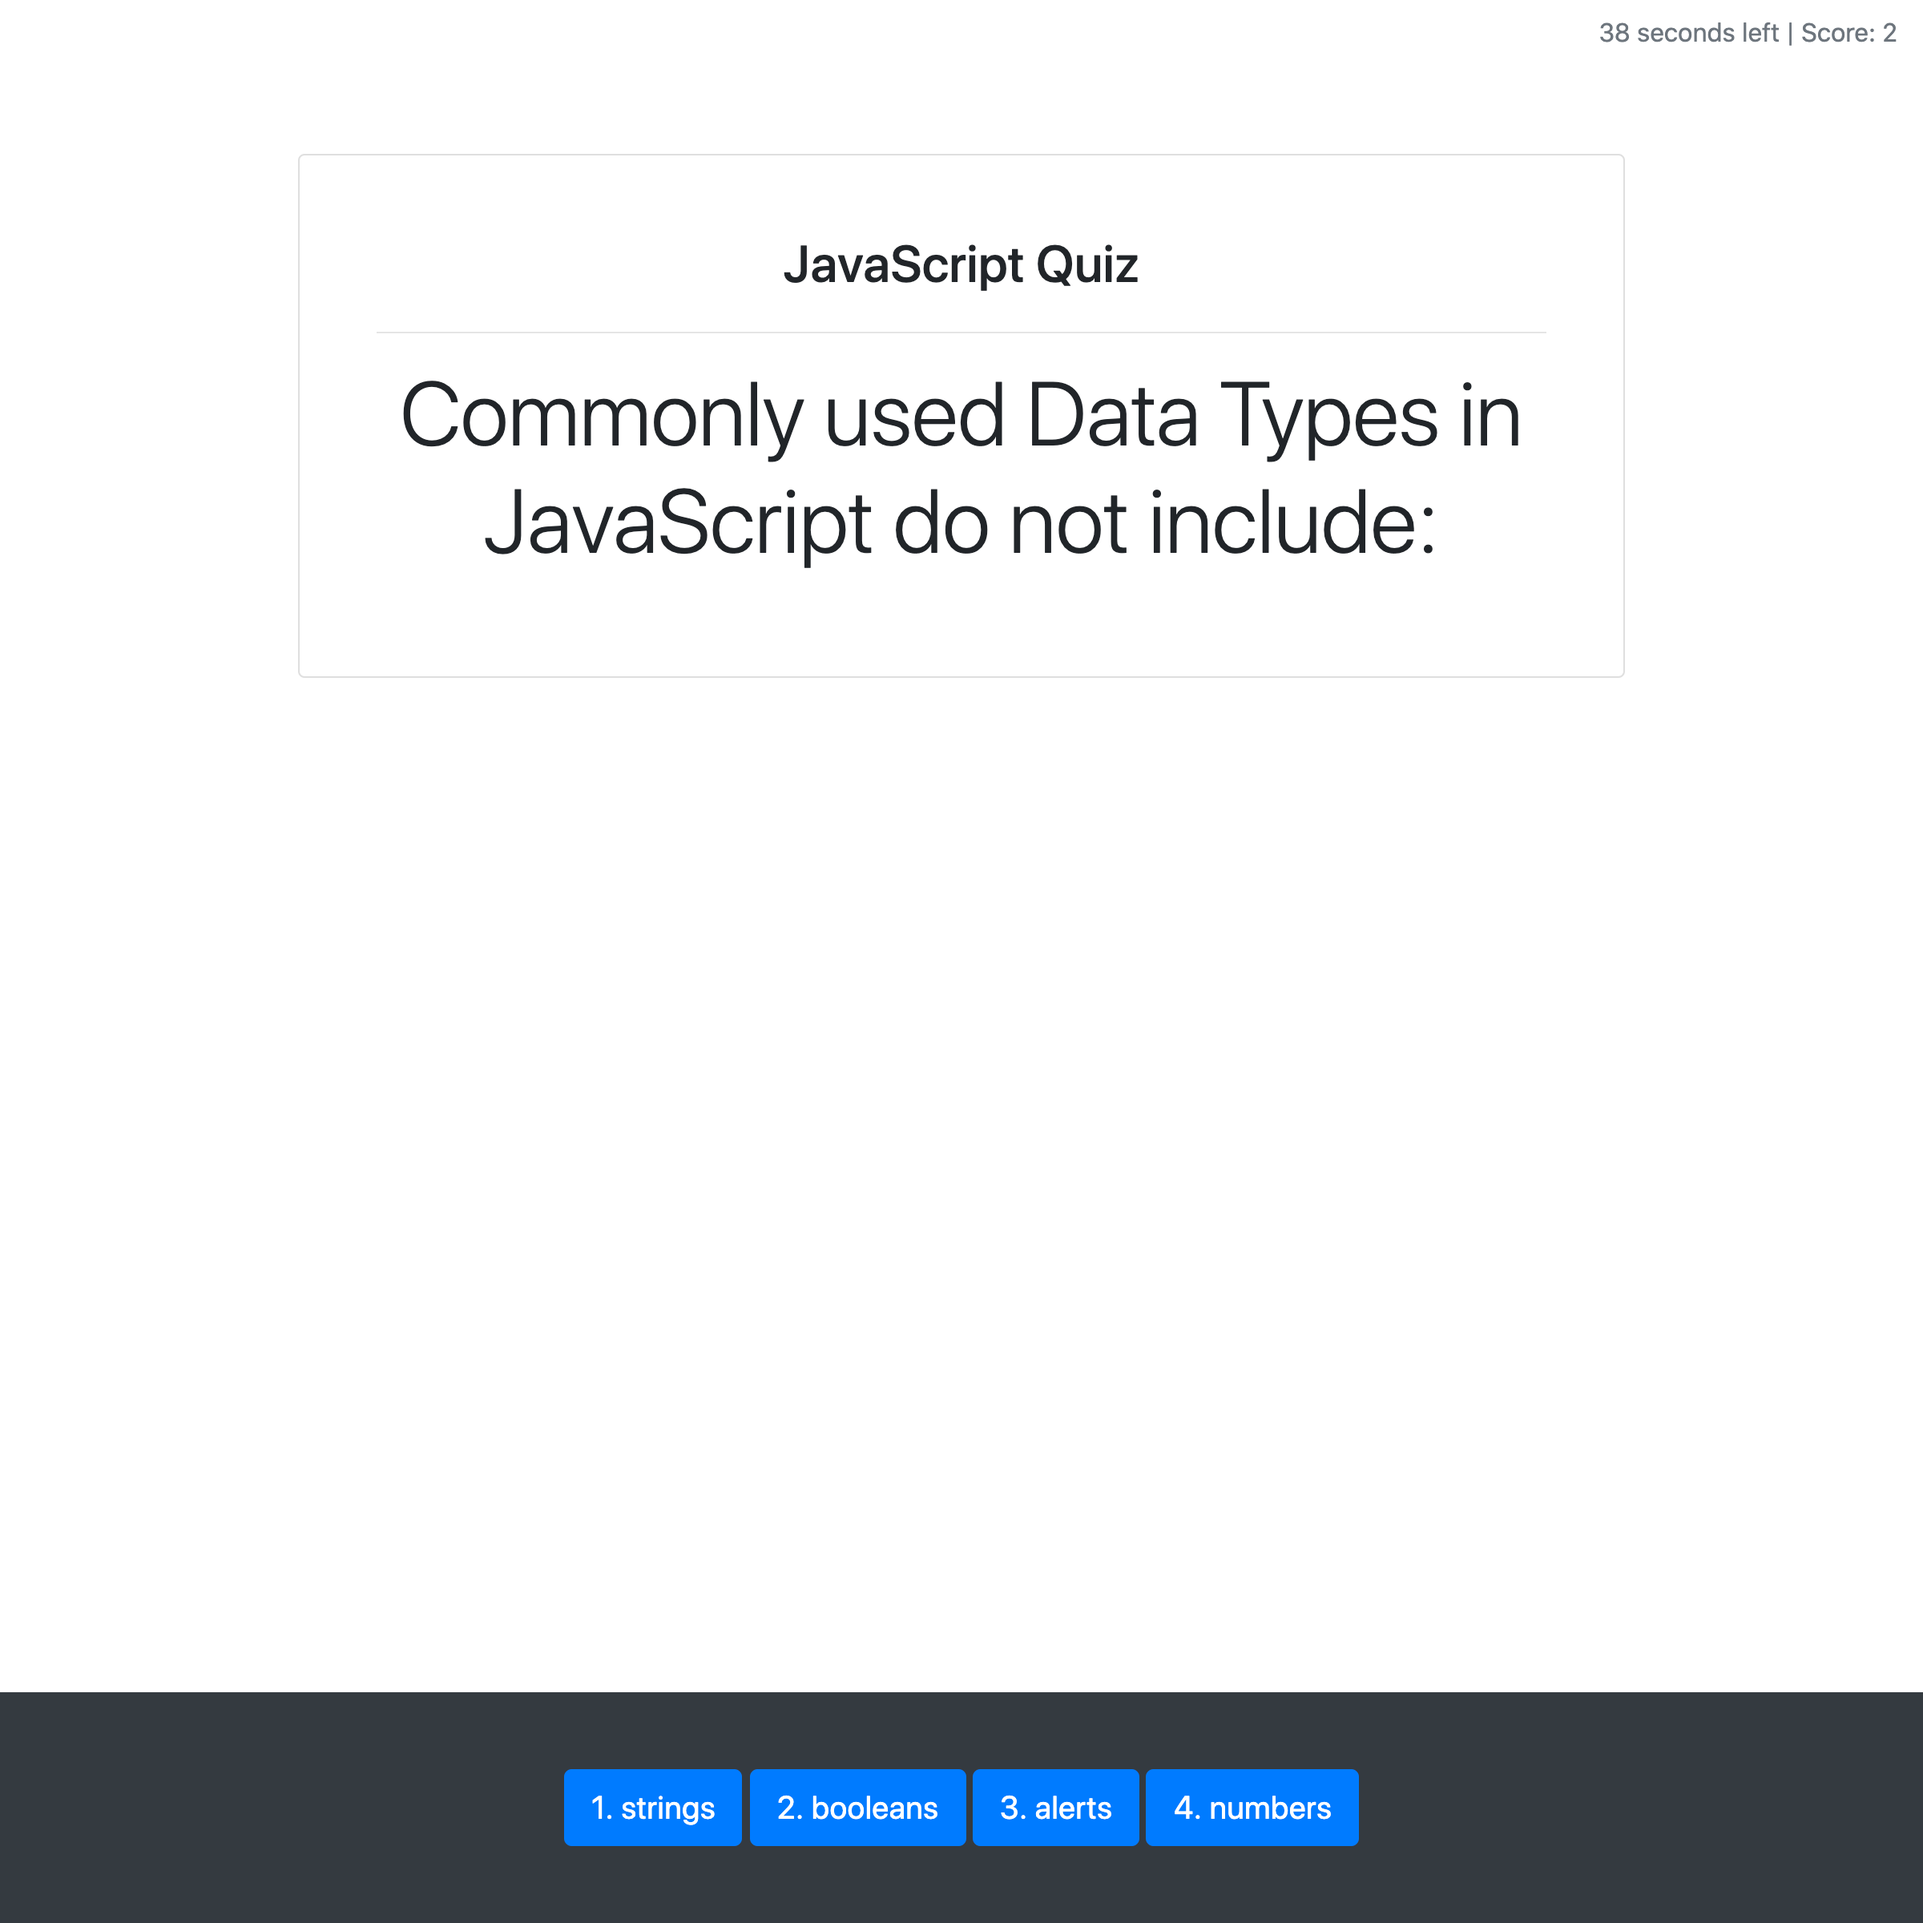
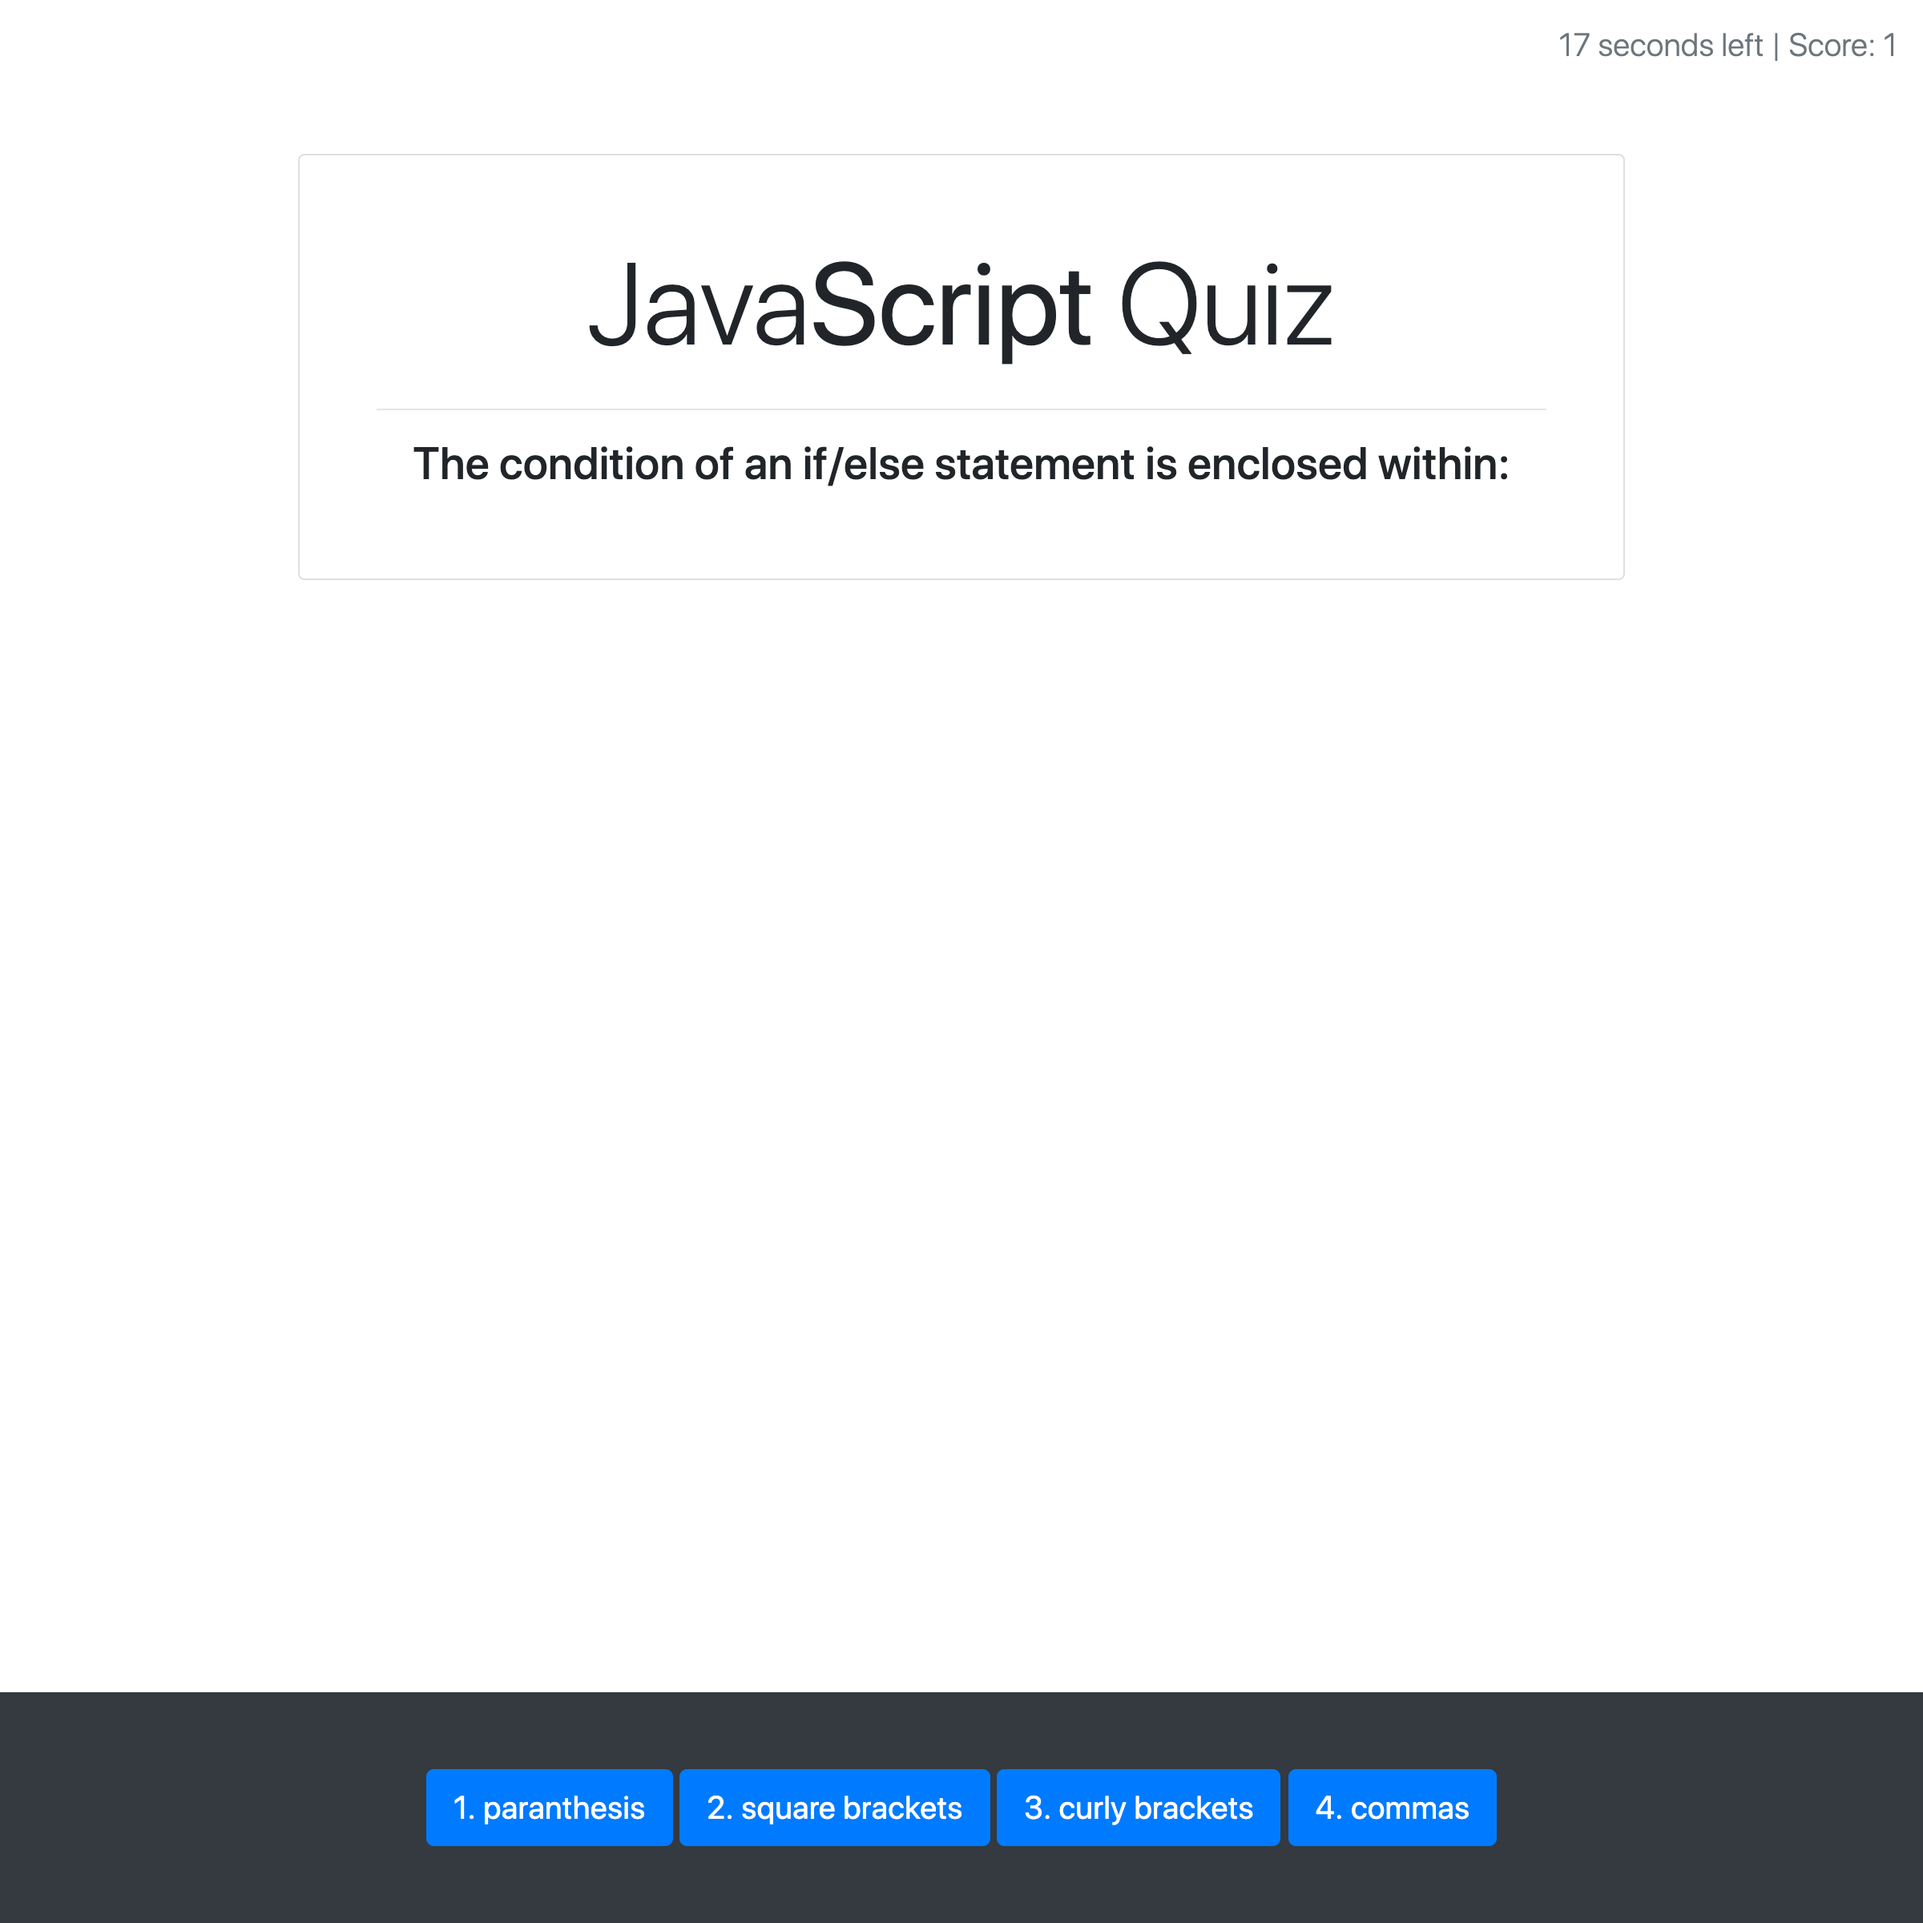
Fixed score issue & refactored

Changed region(s): [[0.2188, 0.125, 0.7812, 0.3125], [0.2188, 0.9062, 0.7812, 0.9688], [0.8125, 0.0, 0.9688, 0.0312]]

diff --git a/index.html b/index.html
@@ -17,31 +17,30 @@
     <header>
         <nav class="navbar fixed-top">
             <div class="navbar-nav mr-auto">
-                <button id="view-high-scores" type="button" class="btn btn-lg btn-outline-primary before-quiz after-quiz">view
-                    high scores</button>
+                <button id="view-high-scores" type="button" class="btn btn-lg btn-outline-primary before-quiz after-quiz">view high scores</button>
             </div>
-            <div class="form-inline mt-2 mt-md-0 in-quiz">
-                <p class="display-5 text-muted in-quiz"><span id="timer"></span> | <span id="score">Score: 0</span></p>
+            <div class="form-inline mt-2 in-quiz">
+                <h2 class="lead text-muted in-quiz"><span id="timer"></span> | <span id="score">Score: 0</span></h2>
             </div>
         </nav>
     </header>
 
-    <main role="main" class="flex-shrink-0 m-5">
-        <div class="container card p-5 w-75 mt-5 text-center">
-            <h2>JavaScript Quiz</h2>
-            <h3 id="subtitle" class="after-quiz show-high-scores"></h3>
+    <main class="flex-shrink-0 m-5">
+        <div class="container card p-5 w-75 my-5 text-center">
+            <h2 class="display-3">Java<strong>Script</strong> Quiz</h2>
             <hr>
-            <button id="start" type="button"
-                class="btn btn-lg btn-primary before-quiz show-high-scores w-50 mx-auto">Start</button>
-            <p id="question" class="display-4 in-quiz"></p>
-            <p id="results" class="lead mt-3 show-high-scores text-center w-50 mx-auto"></p>
+            <h3 class="after-quiz mb-3">GAME <strong>OVER</strong></h3>
+            <h3 id="question" class="in-quiz mt-4"></h3>
+            <div class="show-high-scores mt-3 text-center">
+                <h3>HIGH <strong>SCORES</strong></h3>
+                <ol id="results" class="text-center list-unstyled"></ol>
+            </div>
             <div class="input-group input-group-lg after-quiz">
-                <input id="name" type="text" class="form-control" aria-label="Large"
-                    aria-describedby="inputGroup-sizing-sm">
+                <input id="name" type="text" class="form-control">
                 <button id="save" type="button" class="btn btn-lg btn-outline-success">Save Score</button>
             </div>
-            <button id="reset" type="button" class="btn btn-lg btn-danger show-high-scores mt-3 mx-auto w-50">Reset High
-                Scores</button>
+            <button id="start" type="button" class="btn btn-lg btn-primary before-quiz show-high-scores mt-3 w-100 mx-auto">Start</button>
+            <button id="reset" type="button" class="btn btn-lg btn-danger show-high-scores mt-3 w-100 mx-auto">Reset High Scores</button>
         </div>
     </main>
 

diff --git a/quiz.js b/quiz.js
@@ -64,6 +64,9 @@ var game = {
         // Set default values for variables
         game.init();
 
+        // Display score
+        $("#score").html("Score: 0");
+
         // Begin Quiz
         game.startTimer();
         game.showInQuizHTML();
@@ -100,11 +103,12 @@ var game = {
 
     // Gets an ordered list with the high scores (highlights entry if applicable) 
     getHighScoresHTML: () => {
-        var result = "<ol>";
+        var result = "";
         var myEntry = ($("#name").val() + ": " + game.score);
-
+        
         var highlighted = false;
         var highScores = JSON.parse(localStorage.getItem("highScores"));
+        if (!highScores > 0) return;
         $.each(highScores, (i, score) => {
             var text = score[0] + ": " + score[1];
 
@@ -116,10 +120,8 @@ var game = {
             }
             else result += text;
 
-            result += "<br></li>";
+            result += "</li>";
         });
-
-        result += "</ol>"
 
         return result;
     },
